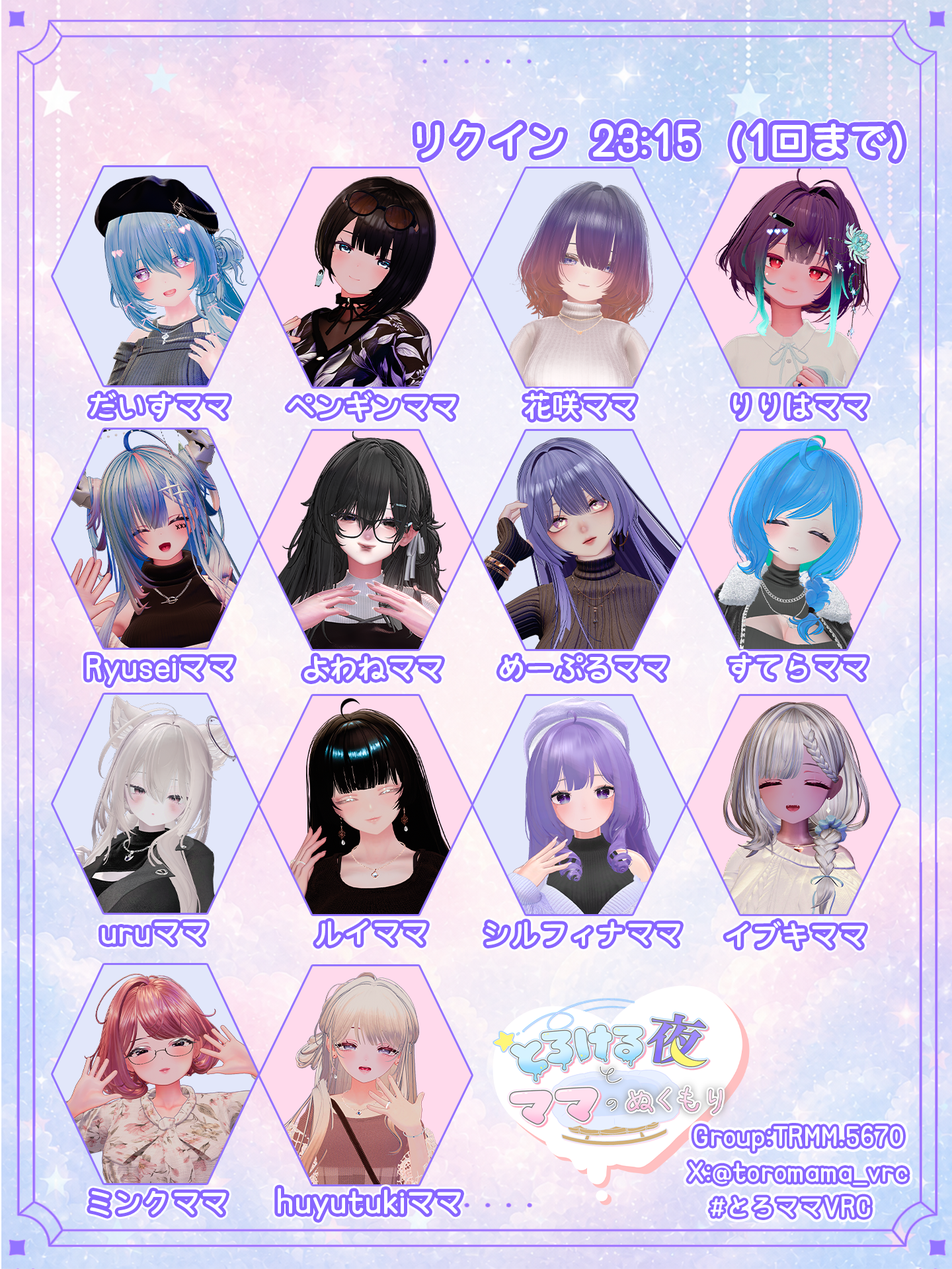
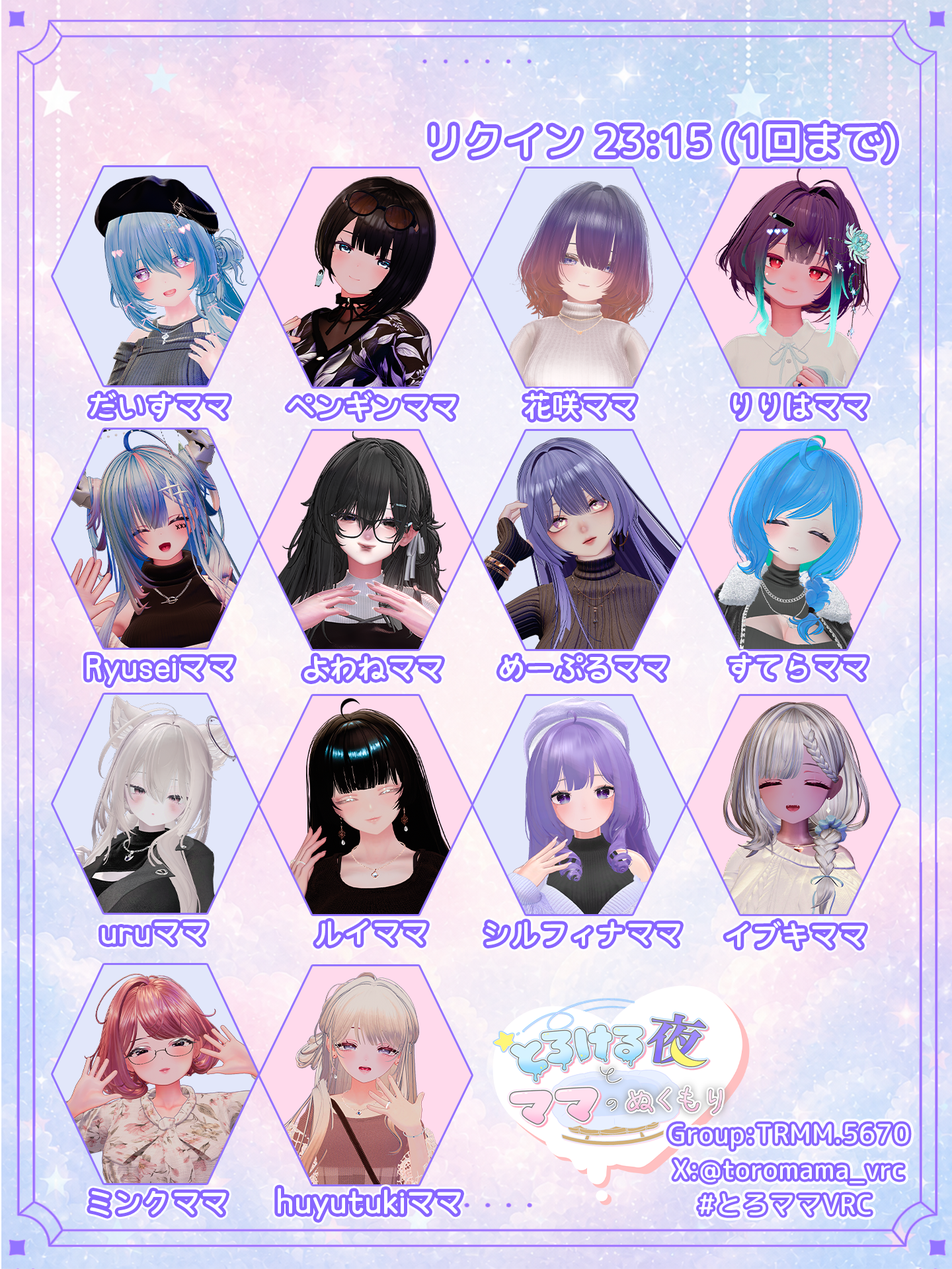
キャスト出勤表作成処理を追加

Changed region(s): [[0.6875, 0.875, 0.9688, 0.9688], [0.4062, 0.0938, 0.9688, 0.1562]]

diff --git a/js/script.js b/js/script.js
@@ -1,7 +1,16 @@
-//
-// 日付選択
-//
+const castItems = document.querySelectorAll(".cast-item");
+const createButton = document.querySelector(".create-button");
 const eventDate = document.getElementById("event-date");
+
+const FONT_FAMILY = '"M PLUS Rounded 1c"';
+const FONT_DATE = "bold 72px 'M PLUS Rounded 1c'";
+const FONT_OYASUMI = "bold 42px 'M PLUS Rounded 1c'";
+
+const weekNames = ["日", "月", "火", "水", "木", "金", "土"];
+
+// ========================================
+// 日付選択
+// ========================================
 
 const today = new Date();
 const year = today.getFullYear();
@@ -11,14 +20,278 @@ const day = String(today.getDate()).padStart(2, "0");
 eventDate.value = `${year}-${month}-${day}`;
 
 
-//
-// キャストボタン
-//
-const castItems = document.querySelectorAll(".cast-item");
-
+// ========================================
+// キャスト選択
+// ========================================
 for (const castItem of castItems) 
 {
     castItem.addEventListener("click", function () {
         castItem.classList.toggle("is-working");
     });
 }
+
+// ========================================
+// 出勤表作成 (ボタン押下)
+// ========================================
+
+createButton.addEventListener("click", async function () {
+
+    await document.fonts.load(`${FONT_DATE}`);
+
+    createAttendanceImage();
+});
+
+// ========================================
+// 出勤表画像を作成
+// ========================================
+
+function createAttendanceImage() 
+{
+    const image = new Image();
+
+    image.onload = function () {
+
+        const canvas = document.createElement("canvas");
+        const context = canvas.getContext("2d");
+
+        canvas.width = image.width;
+        canvas.height = image.height;
+
+        // テンプレート画像を描画
+        context.drawImage(
+            image,
+            0,
+            0
+        );
+
+        // 日付を描画
+        drawEventDate(
+            context,
+            eventDate.value
+        );
+
+        // おやすみを描画
+        drawRestingCast(
+            context
+        );
+
+        // プレビューに表示
+        showPreview(
+            canvas
+        );
+    };
+
+    image.src = "/images/base/castlist_base.png";
+}
+
+// ========================================
+// 日付
+// ========================================
+
+function drawEventDate(context, dateValue) 
+{
+    console.log(dateValue);//debug
+
+    if (dateValue === "") 
+    {
+        return;
+    }
+
+    const date = new Date(dateValue);
+
+    const year = date.getFullYear();
+    const month = String(date.getMonth() + 1).padStart(1, "0");
+    const day = String(date.getDate()).padStart(1, "0");
+    const week = weekNames[date.getDay()];
+
+    const text = `${year}年${month}月${day}日(${week})`;
+
+    const x = 100;
+    const y = 120;
+
+    //context.font = `bold 72px ${FONT_FAMILY}`;
+    context.font = `${FONT_DATE}`;
+    context.textAlign = "left";
+    context.textBaseline = "middle";
+    context.letterSpacing = "8px";
+
+    // 境界線1
+    context.lineWidth = 24;
+    context.strokeStyle = "#ffffff";
+    context.strokeText(text, x, y);
+    
+    // 境界線2
+    context.lineWidth = 14;
+    context.strokeStyle = "#8866ff";
+    context.strokeText(text, x, y);
+
+    // 文字色
+    context.fillStyle = "#ffffff";
+    context.fillText(text, x, y);
+}
+
+// ========================================
+// おやすみキャスト
+// ========================================
+
+function drawRestingCast(context) 
+{
+    const castPositions = [
+        { x: 235, y: 418 },
+        { x: 553, y: 420 },
+        { x: 876, y: 420 },
+        { x: 1200, y: 420 },
+
+        { x: 235, y: 815 },
+        { x: 553, y: 817 },
+        { x: 876, y: 817 },
+        { x: 1200, y: 817 },
+
+        { x: 235, y: 1216 },
+        { x: 553, y: 1218 },
+        { x: 876, y: 1218 },
+        { x: 1200, y: 1218 },
+
+        { x: 235, y: 1625 },
+        { x: 553, y: 1627 },
+        { x: 876, y: 1627 },
+        { x: 1200, y: 1627 }
+    ];
+
+    for (let i = 0; i < castItems.length; i++) 
+    {
+        const castItem = castItems[i];
+
+        // 出勤なら何もしない
+        if (castItem.classList.contains("is-working"))
+        {
+            continue;
+        }
+
+        const position = castPositions[i];
+
+        drawRestingOverlay(
+            context,
+            position.x,
+            position.y
+        );
+    }
+}
+
+// ========================================
+// おやすみ表示
+// ========================================
+
+function drawRestingOverlay(context, centerX, centerY)
+{
+    const width = 320;
+    const height = 330;
+
+    const left = centerX - width / 2;
+    const top = centerY - height / 2;
+
+    context.save();
+
+    // 六角形
+    context.beginPath();
+
+    context.moveTo(
+        centerX - width / 2,
+        centerY
+    );
+
+    context.lineTo(
+        centerX - width * 0.25,
+        centerY - height / 2
+    );
+
+    context.lineTo(
+        centerX + width * 0.25,
+        centerY - height / 2
+    );
+
+    context.lineTo(
+        centerX + width / 2,
+        centerY
+    );
+
+    context.lineTo(
+        centerX + width * 0.25,
+        centerY + height / 2
+    );
+
+    context.lineTo(
+        centerX - width * 0.25,
+        centerY + height / 2
+    );
+
+    context.closePath();
+
+    // 六角形の中だけに描画
+    context.clip();
+
+    // 黒い半透明
+    context.fillStyle = "rgba(0, 0, 0, 0.50)";
+
+    context.fillRect(
+        left,
+        top,
+        width,
+        height
+    );
+
+    // おやすみ
+    context.fillStyle = "#ffffff";
+    context.font = `${FONT_OYASUMI}`;
+    context.textAlign = "center";
+    context.textBaseline = "middle";
+    context.letterSpacing = "0px";
+
+    context.fillText(
+        "おやすみ",
+        centerX,
+        centerY + 100
+    );
+
+    context.restore();
+}
+
+// ========================================
+// プレビュー
+// ========================================
+
+let createdCanvas = null;
+
+function showPreview(canvas) 
+{
+    const preview = document.querySelector(".preview");
+    preview.innerHTML = "";
+
+    const image = document.createElement("img");
+    image.src = canvas.toDataURL("image/png");
+    image.alt = `CastList_${eventDate.value}`;
+
+    preview.appendChild(image);
+
+    createdCanvas = canvas;
+}
+
+// ========================================
+// ダウンロード
+// ========================================
+
+const downloadButton = document.querySelector(".download-button");
+
+downloadButton.addEventListener("click", function () {
+    if (createdCanvas === null)
+    {
+        return;
+    }
+
+    const link = document.createElement("a");
+
+    link.href = createdCanvas.toDataURL("image/png");
+    link.download = `CastList_${eventDate.value}.png`;
+
+    link.click();
+});

diff --git a/css/style.css b/css/style.css
@@ -384,6 +384,15 @@ body {
     text-align: center;
 }
 
+.preview img {
+    display: block;
+    width: 100%;
+    max-width: 600px;
+    height: auto;
+    margin: 0 auto;
+    border-radius: var(--radius-small);
+}
+
 /* ================================
    Download
 ================================ */
@@ -522,5 +531,13 @@ body {
 
     .cast-name {
         font-size: 10px;
+    }
+
+    .preview img {
+        display: block;
+        width: 100%;
+        max-width: 500px;
+        height: auto;
+        margin: 0 auto;
     }
 }

diff --git a/index.html b/index.html
@@ -8,6 +8,8 @@
 
     <link rel="stylesheet" href="css/base.css">
     <link rel="stylesheet" href="css/style.css">
+
+    <link href="https://fonts.googleapis.com/css2?family=M+PLUS+Rounded+1c:wght@700&display=swap" rel="stylesheet">
 </head>
 
 <body>
